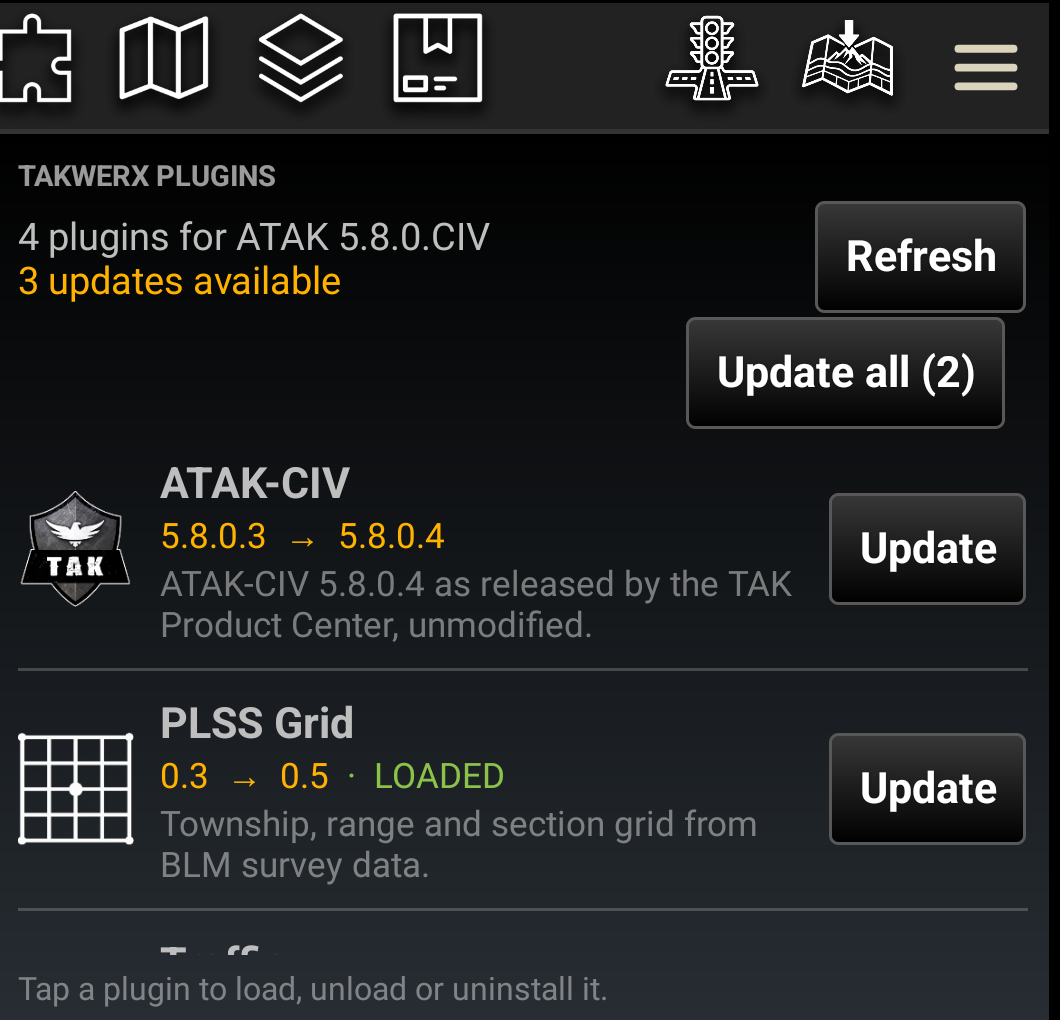
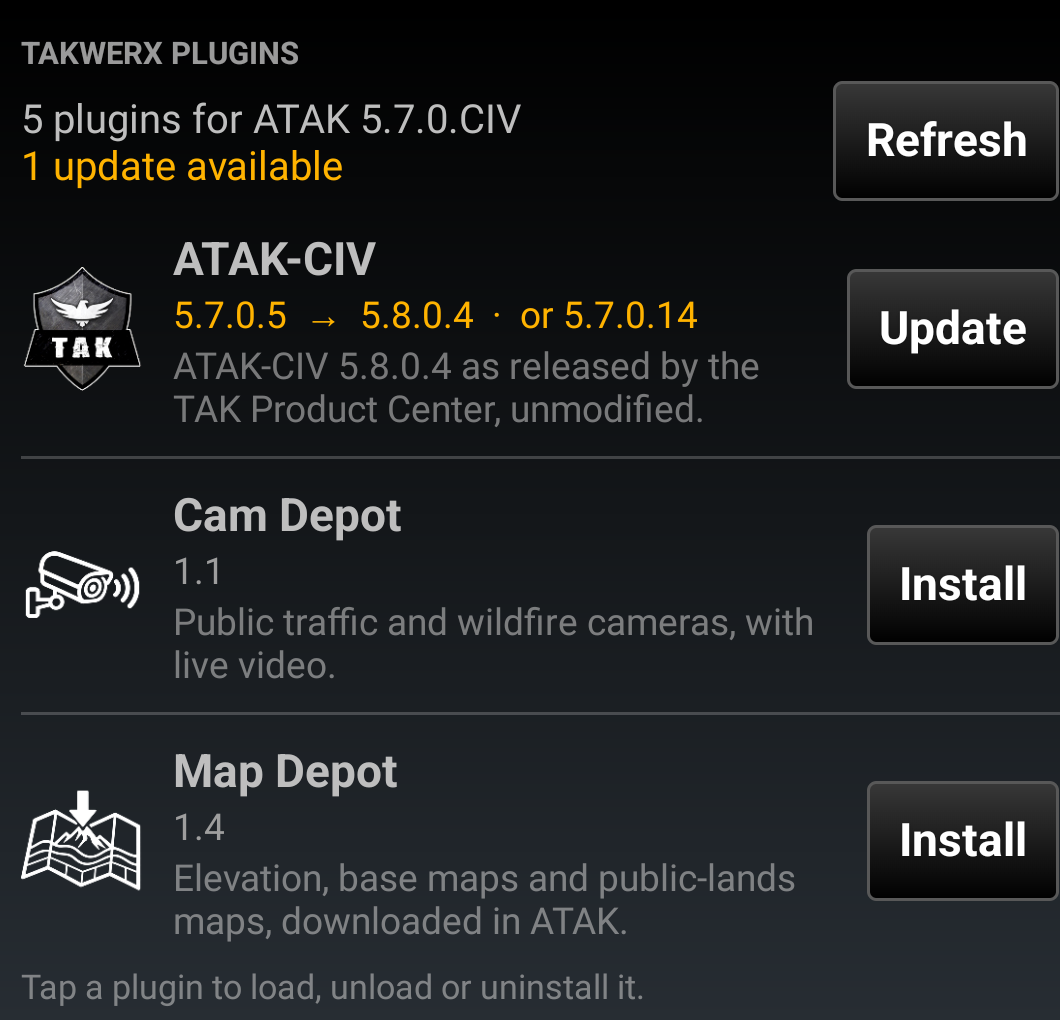
TAKwerx Market: the chooser and the ATAK download, from official 5.7

Changed region(s): [[0.0, 0.0, 1.0, 0.4255], [0.0, 0.4559, 0.7783, 1.0], [0.7783, 0.4863, 1.0, 1.0]]

diff --git a/docs/USER_GUIDE.md b/docs/USER_GUIDE.md
@@ -185,7 +185,11 @@ available the row says so, and Update asks which one you want. A same-release
 update, 5.7.0.5 to 5.7.0.14 say, is simpler: ATAK alone goes to Android, and
 the market and your plugins keep working as they are.
 
-![The ATAK-CIV row above the plugins, offering 5.8.0.4, with Update all beside it](screenshots/19-atak-row.png)
+![The ATAK-CIV row above the plugins on a 5.7 phone, offering 5.8.0.4 or 5.7.0.14](screenshots/19-atak-row.png)
+
+![Update ATAK to which version? 5.8.0.4 (newest), or 5.7.0.14, same release, plugins keep working](screenshots/22-atak-version-chooser.png)
+
+![The ATAK row downloading, 30%](screenshots/23-atak-downloading.png)
 
 Tap it and read the warning, because this one restarts ATAK. The market
 downloads ATAK (about 370 MB), then its own build for the new ATAK, and checks
